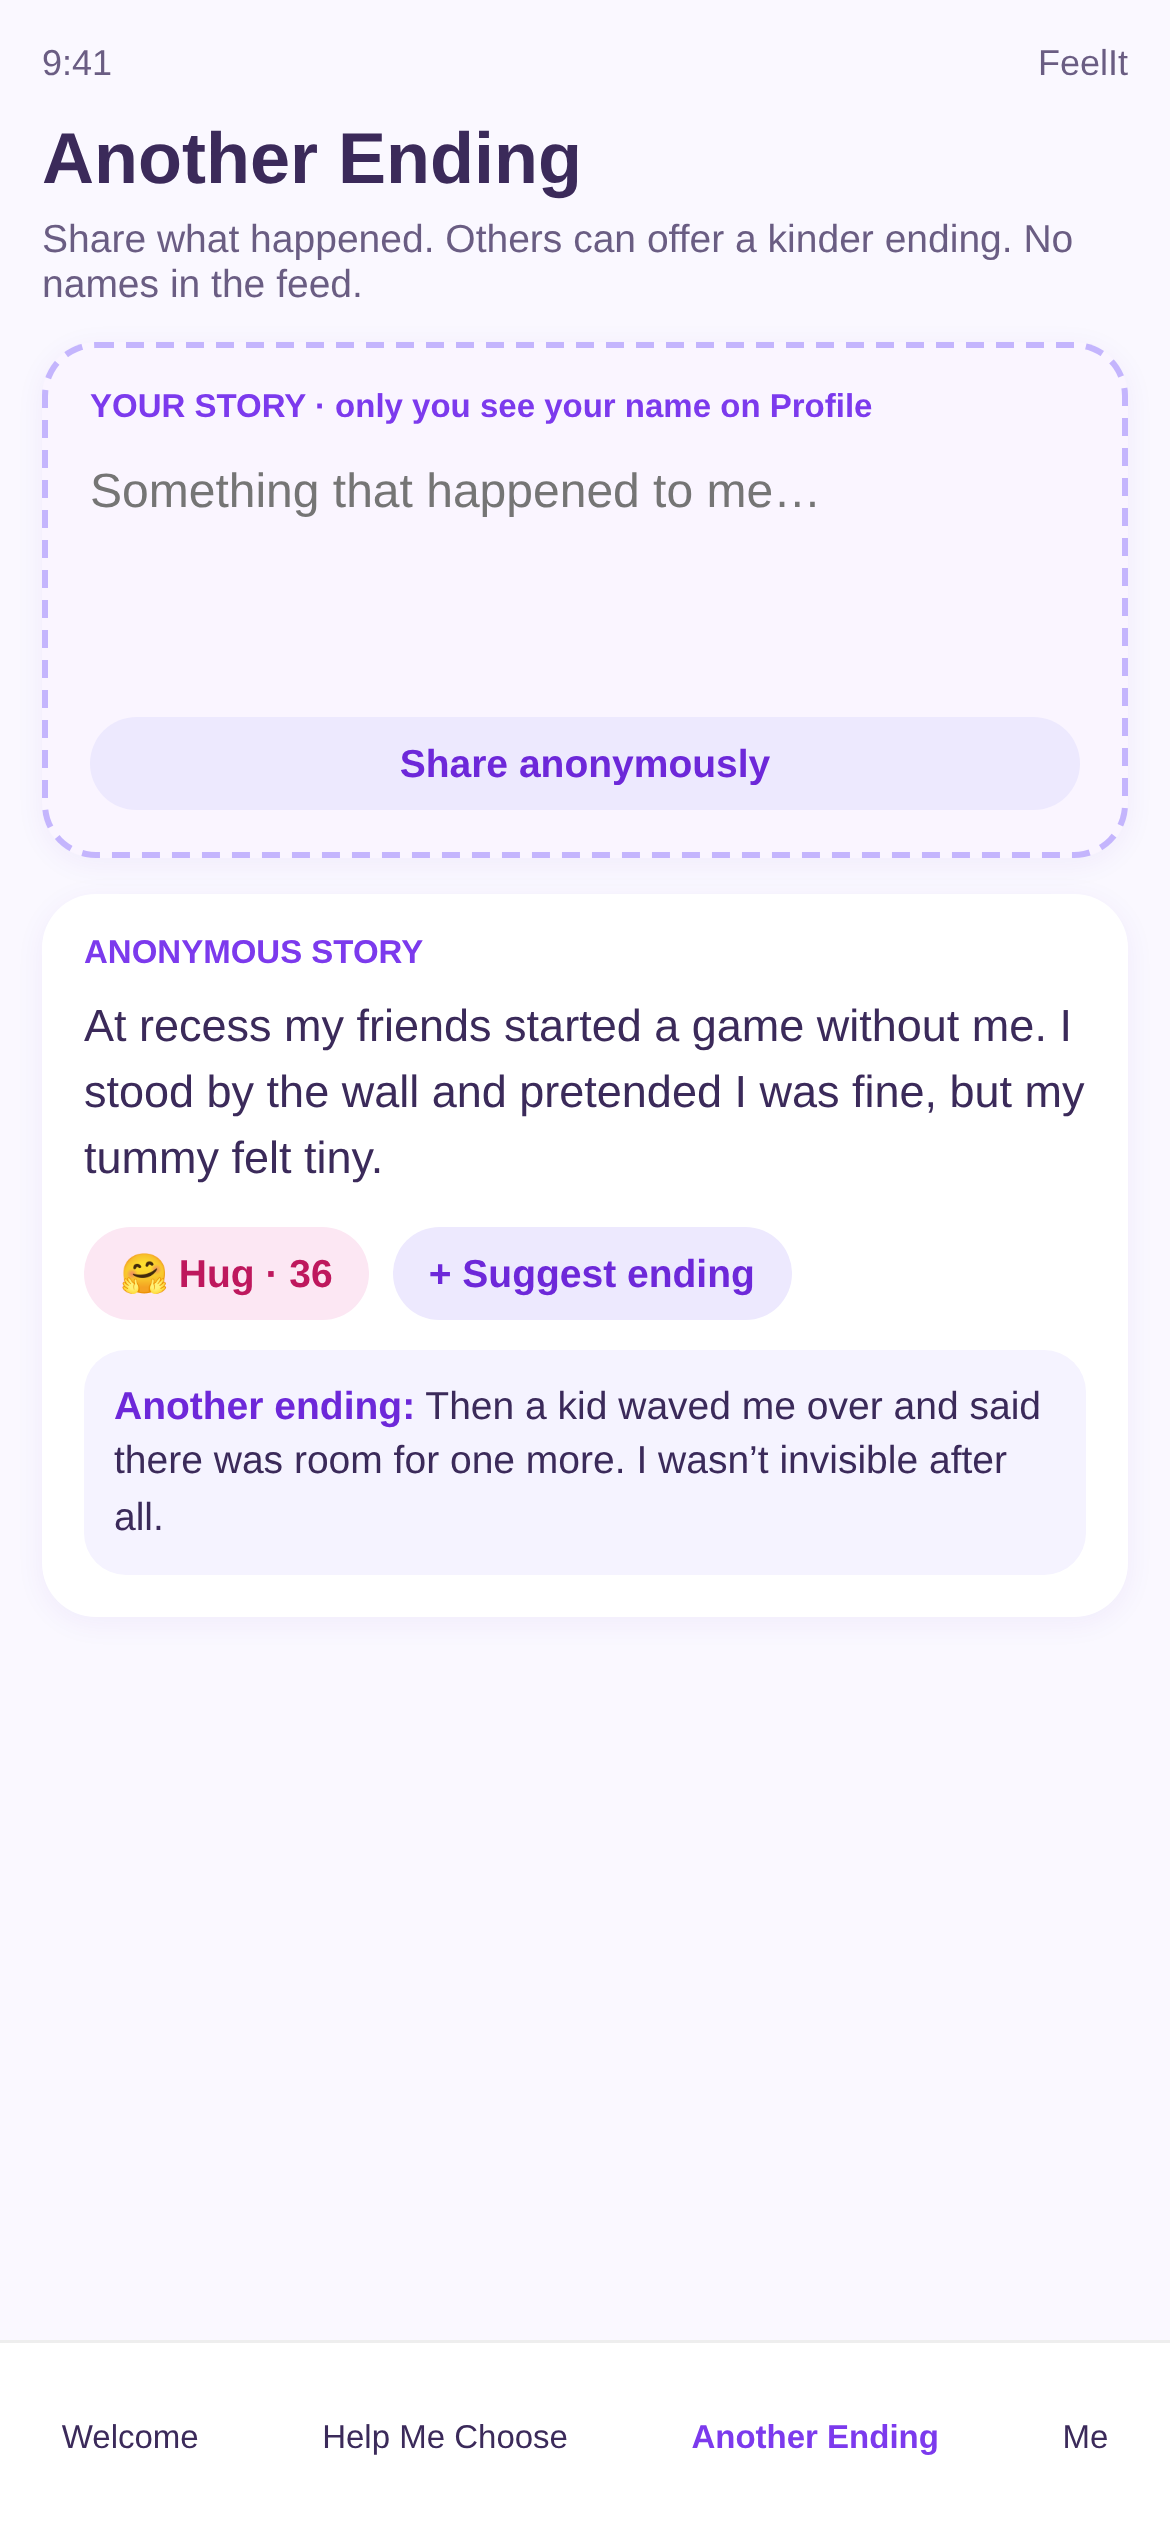
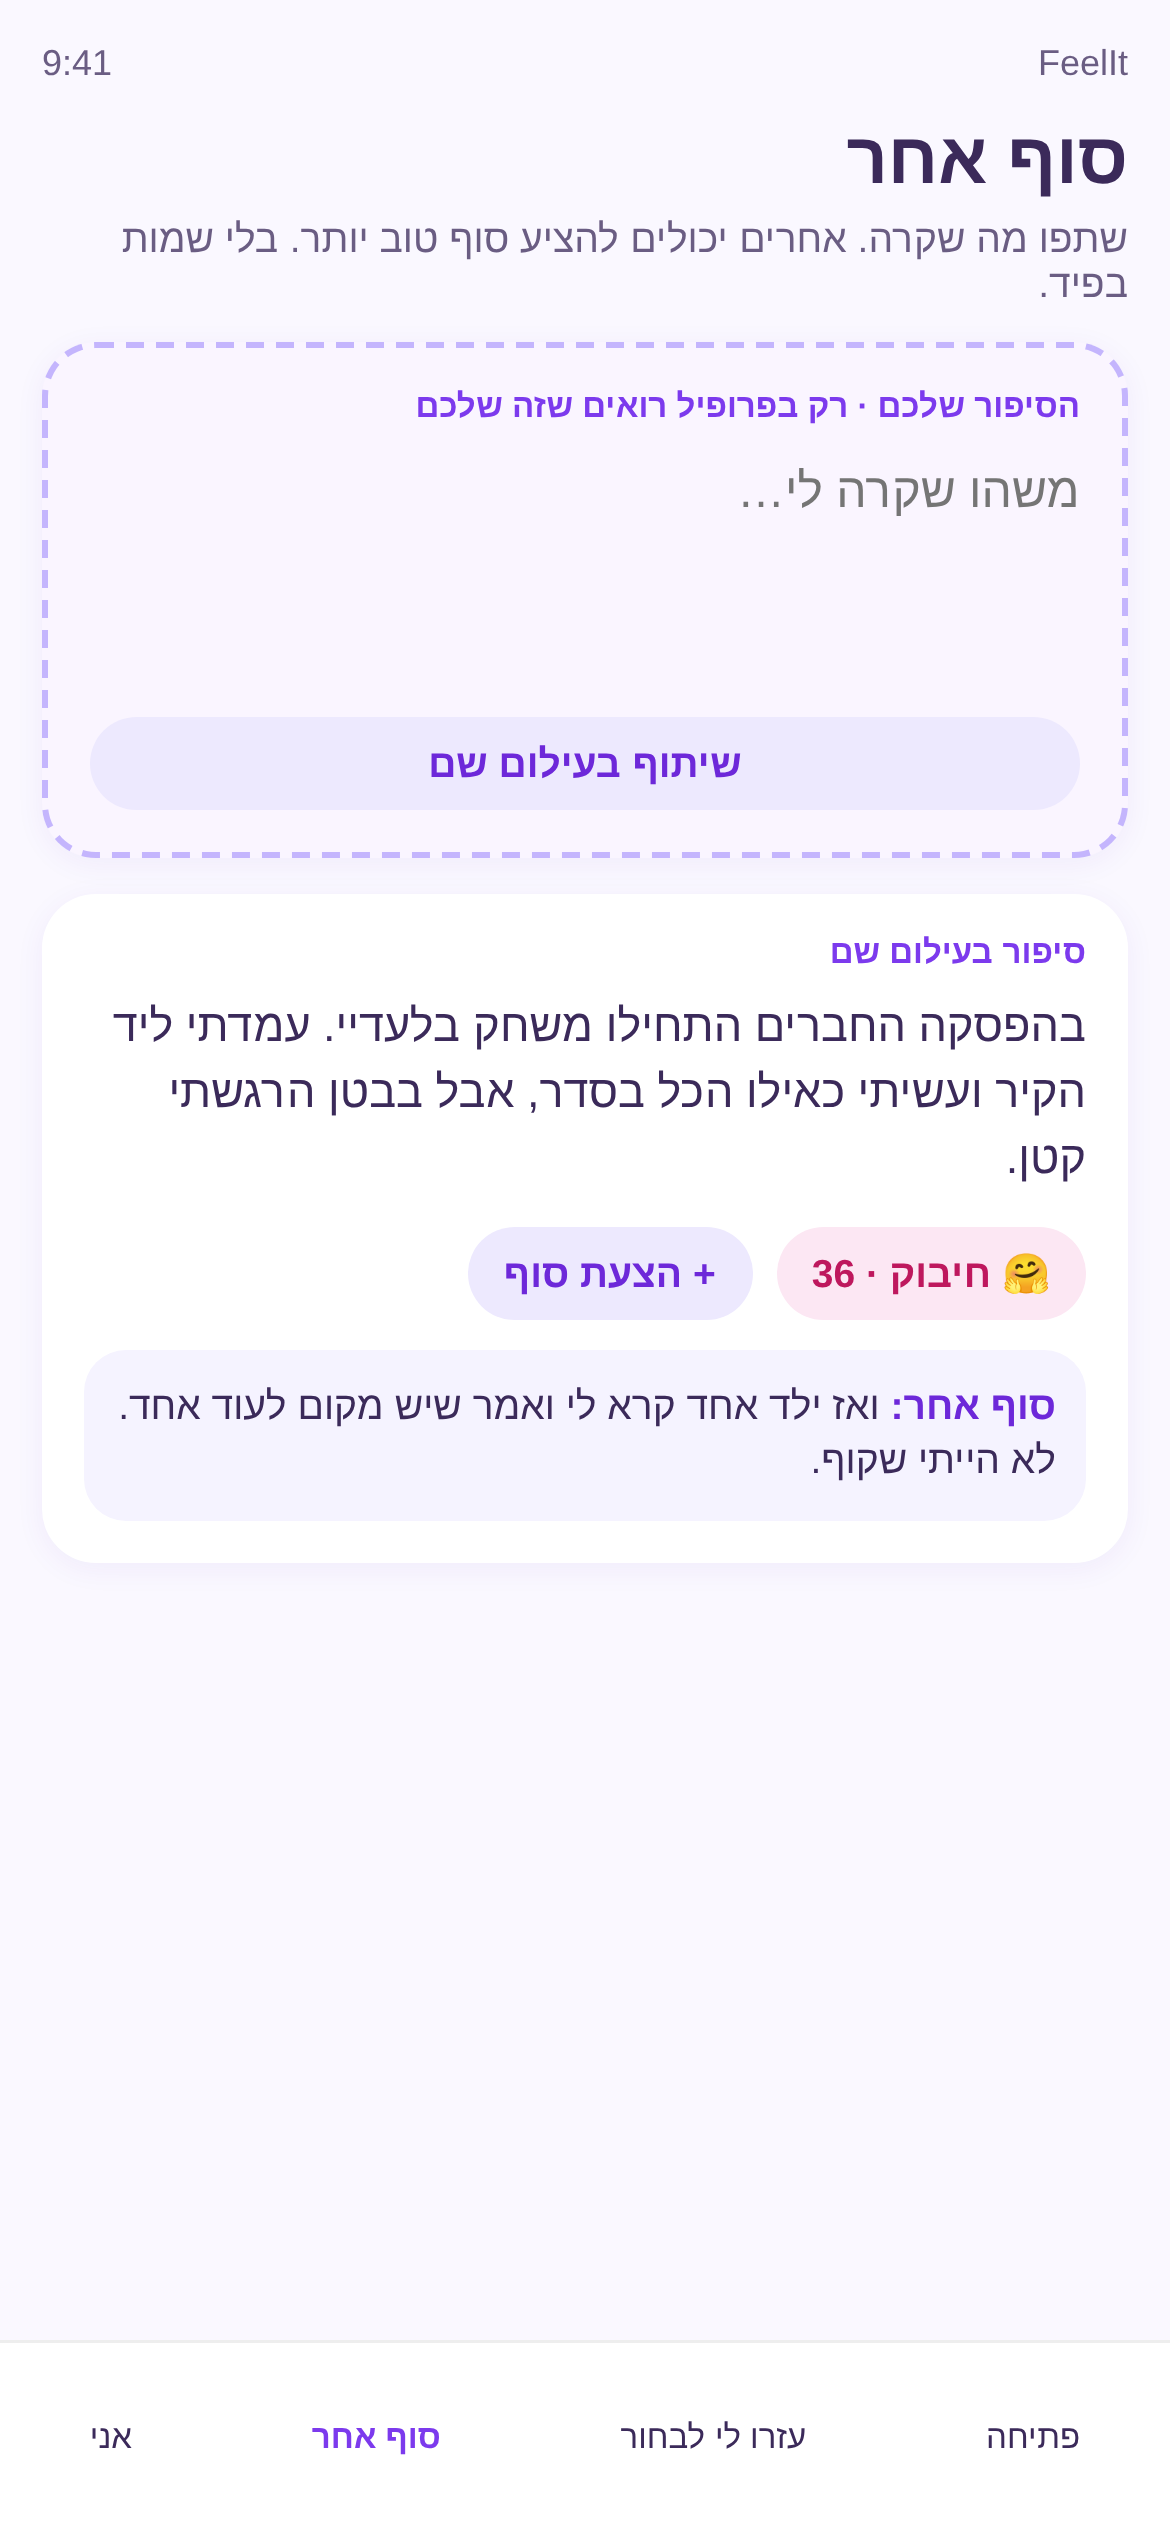
Replace mocks with Hebrew RTL versions; add Hebrew feature names to README
- Replace all 5 screen mocks with Hebrew RTL iPhone portrait assets
- Add v1 language note: Hebrew (gender-neutral UI copy, brand stays FeelIt)
- Add Hebrew names to screen headings: פתיחה, עזרו לי לבחור, סוף אחר
- Add Hebrew lever names table: שמש בפנים, מזג אוויר בבית הספר, etc.
- Add Hebrew gift names table: כוכב אומץ, ענן חיבוק, מגיע לכם, etc.
- Add Hebrew UI terms inline: חיבוק (hug), שיתוף בעילום שם, הצעת סוף

diff --git a/README.md b/README.md
@@ -2,6 +2,8 @@
 
 FeelIt is an app supporting kids under 10 who have experienced bullying or social harassment.
 
+**v1 language: Hebrew** — UI copy is gender-neutral Hebrew; brand name stays "FeelIt".
+
 ---
 
 ## Purpose
@@ -41,7 +43,7 @@ Young children experiencing bullying often lack safe outlets to share their expe
 
 ## Screens
 
-### Welcome Screen
+### Welcome Screen / פתיחה
 
 **Trigger:** First app open of the day
 
@@ -53,11 +55,13 @@ Young children experiencing bullying often lack safe outlets to share their expe
 
 The child adjusts several **feeling levers** (1–5 scale each), each representing a different dimension of their day. Visual icons at each end matter as much as the number—designed to be bullying-aware without naming bullies on the screen.
 
-1. **Sunshine inside** — How bright my heart feels today
-2. **School weather** — How school felt (calm → stormy)
-3. **With others** — How included I felt with kids around me
-4. **Steady body** — Calm vs butterflies / shaky
-5. **Hope light** — How tomorrow looks from here
+| English | Hebrew |
+|---------|--------|
+| Sunshine inside | שמש בפנים |
+| School weather | מזג אוויר בבית הספר |
+| With others | עם אחרים |
+| Steady body | רגועים בגוף |
+| Hope light | אור של תקווה |
 
 **Rules:**
 - Levers only—no free text
@@ -68,13 +72,13 @@ The child adjusts several **feeling levers** (1–5 scale each), each representi
 
 ---
 
-#### Step 2 — You're Not Alone
+#### Step 2 — You're Not Alone / לא לבד כאן
 
 After setting their levers, the child sees an **anonymous count** of other kids whose feelings look similar today.
 
-- Example: "42 kids felt close to this today"
+- Example: "42 kids felt close to this today" / "42 ילדים הרגישו דומה היום"
 - Display uses anonymous dots/avatars only—no names, no identifiable faces
-- Optional supporting line: "Different schools. Same weather inside."
+- Supporting line: "Different schools. Same weather inside." / "בתי ספר שונים. אותו מזג אוויר בפנים."
 
 **Design intent:** Reassure the child that others share similar feelings without exposing anyone's identity.
 
@@ -82,16 +86,19 @@ After setting their levers, the child sees an **anonymous count** of other kids 
 
 ---
 
-#### Step 3 — Send a Warm Gift
+#### Step 3 — Send a Warm Gift / מתנה חמה
 
 The child can pick one **structured kindness gift** to send to that anonymous group of similar-feeling kids.
 
-**Gift options (examples):**
-- Brave star
-- Hug cloud
-- You-matter heart
-- Pocket flashlight
-- High-five
+**Gift options:**
+
+| English | Hebrew |
+|---------|--------|
+| Brave star | כוכב אומץ |
+| Hug cloud | ענן חיבוק |
+| You-matter heart | מגיע לכם |
+| Flashlight for a hard day | פנס ליום קשה |
+| High-five | תנו חמש |
 
 **How it works:**
 - One tap sends the gift into a shared "kindness jar" that those kids can receive
@@ -102,42 +109,42 @@ The child can pick one **structured kindness gift** to send to that anonymous gr
 
 ![Welcome Screen — Step 3: Send a Warm Gift](mocks/welcome-gift.png)
 
-### Help Me Choose
+### Help Me Choose / עזרו לי לבחור
 
 **Purpose:** Let a young user engage with others safely by asking for help with everyday decisions.
 
 **How it works:**
-1. The asker writes a **free-text question** (e.g. "What should I wear to the party?")
+1. The asker writes a **free-text question** (e.g. "מה ללבוש למסיבה?" / "What should I wear to the party?")
 2. The asker uploads **3–4 images** as answer options (e.g. outfit photos)
 3. Other users see these asks in a feed and **choose exactly one image** to vote
 4. No typed replies, no comments, no DMs on this surface
 
 **Example:**
-> "What should I wear to the party?"
-> - [Image A: Dress]
-> - [Image B: Casual]
-> - [Image C: Bright]
-> - [Image D: Cozy]
+> "מה ללבוש למסיבה?" (What should I wear to the party?)
+> - [Image א: שמלה / Dress]
+> - [Image ב: קז'ואל / Casual]
+> - [Image ג: צבעוני / Bright]
+> - [Image ד: נוח / Cozy]
 
 **Safety note:** Voters can only tap an image—no free-text responses to the asker. This keeps peer harassment risk low while still allowing the asker's own question text.
 
 ![Help Me Choose](mocks/help-me-choose.png)
 
-### Another Ending
+### Another Ending / סוף אחר
 
 **Purpose:** Let kids share what happened to them and receive hopeful alternative endings from others.
 
 **How it works:**
 1. A user writes a **free-text story** about something that happened to them
-2. They tap "Share anonymously" to post it to the feed
+2. They tap "Share anonymously" / "שיתוף בעילום שם" to post it to the feed
 3. In the **public feed**, stories appear **without author identity**
-4. Other users can **suggest an alternative ending** for any story
-5. Other users can give **hugs** to a story if they relate (structured reaction)
+4. Other users can **suggest an alternative ending** / "הצעת סוף" for any story
+5. Other users can give **hugs** / **חיבוק** to a story if they relate (structured reaction)
 6. The **author gets notified** when someone adds an ending (never left hanging)
 
 **Privacy & safety:**
 - Public feed: no author identity shown on stories or endings
-- On their **Profile**, each user can see their own stories (private to them)
+- On their **Profile** / **אני**, each user can see their own stories (private to them)
 - Hugs and endings are the safe engagement paths—no free-text DMs
 - Notifications to the author are private system messages
 
